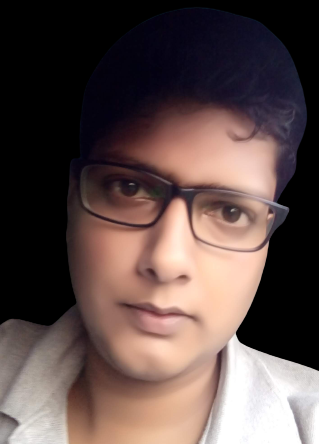
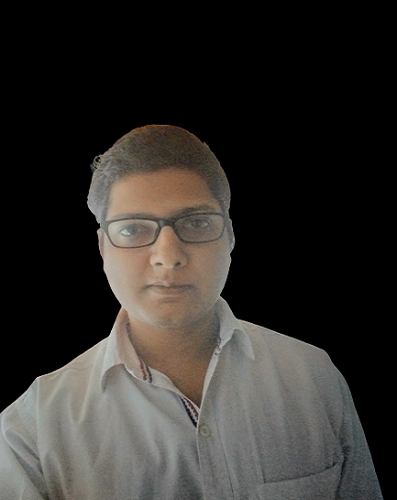
new photo and resume link updated

diff --git a/src/screens/portfolio/Portfolio.jsx b/src/screens/portfolio/Portfolio.jsx
@@ -87,7 +87,7 @@ function Portfolio() {
         <a className="nextLink" style={{color:"black", marginLeft:"10px", textDecoration:"none"}} href="https://github.com/kkm980" target="_blank" rel="noreferrer">Github</a>
       </p>
       <p data-aos="fade-down" >Pay a visit 
-        <a className="nextLink" style={{color:"black" , marginLeft:"10px", textDecoration:"none"}} href="https://drive.google.com/file/d/1h1lo4pYnkjV70iCcAcdZU3AaoT-E-BEY/view?usp=sharing" target="_blank" rel="noreferrer">Resume</a>
+        <a className="nextLink" style={{color:"black" , marginLeft:"10px", textDecoration:"none"}} href="https://drive.google.com/file/d/19h6MPKLE58JAZFjWwU9b1mh0bNT7Ye5B/view?usp=sharing" target="_blank" rel="noreferrer">Resume</a>
       </p>
       <Container fluid="lg" style={{width:"90%", padding: '1rem 0' }}>
         <Row>

diff --git a/src/screens/navigationBar/NavigationBar.js b/src/screens/navigationBar/NavigationBar.js
@@ -32,7 +32,7 @@ function NavigationBar() {
         <Navbar.Collapse style={{ justifyContent: 'flex-end', marginRight: '1rem', borderColor: 'none' }}>
           <Nav data-aos="slide-right" className="links" style={{ margin: '0 1rem' }}>
             {createLinks()}
-            <Nav.Link key={10} target="_blank" href="https://drive.google.com/file/d/1h1lo4pYnkjV70iCcAcdZU3AaoT-E-BEY/view?usp=sharing">RESUME</Nav.Link>
+            <Nav.Link key={10} target="_blank" href="https://drive.google.com/file/d/19h6MPKLE58JAZFjWwU9b1mh0bNT7Ye5B/view?usp=sharing">RESUME</Nav.Link>
           </Nav>
         </Navbar.Collapse>
       </Navbar>

diff --git a/src/screens/aboutMe/aboutMe.css b/src/screens/aboutMe/aboutMe.css
@@ -23,7 +23,7 @@
   flex-direction: column;
   justify-content: center;
   align-items: center;
-  margin: 4% 5% 0 0;
+  margin: 1% 5% 0 0;
 }
 
 .about__container img {
